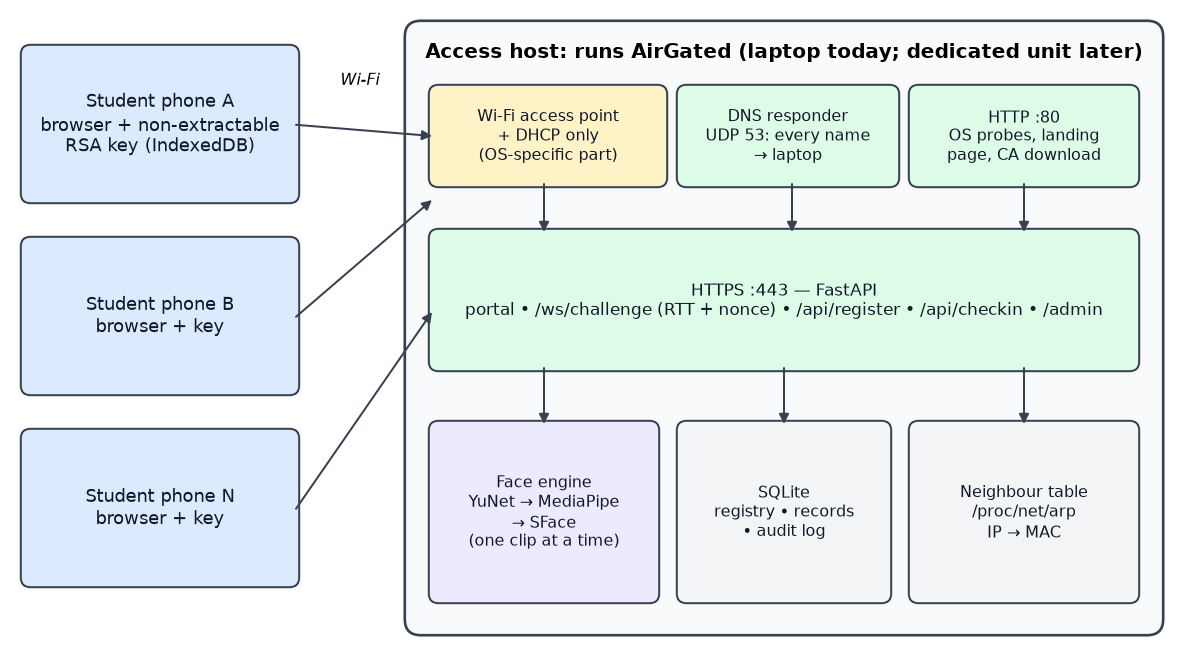
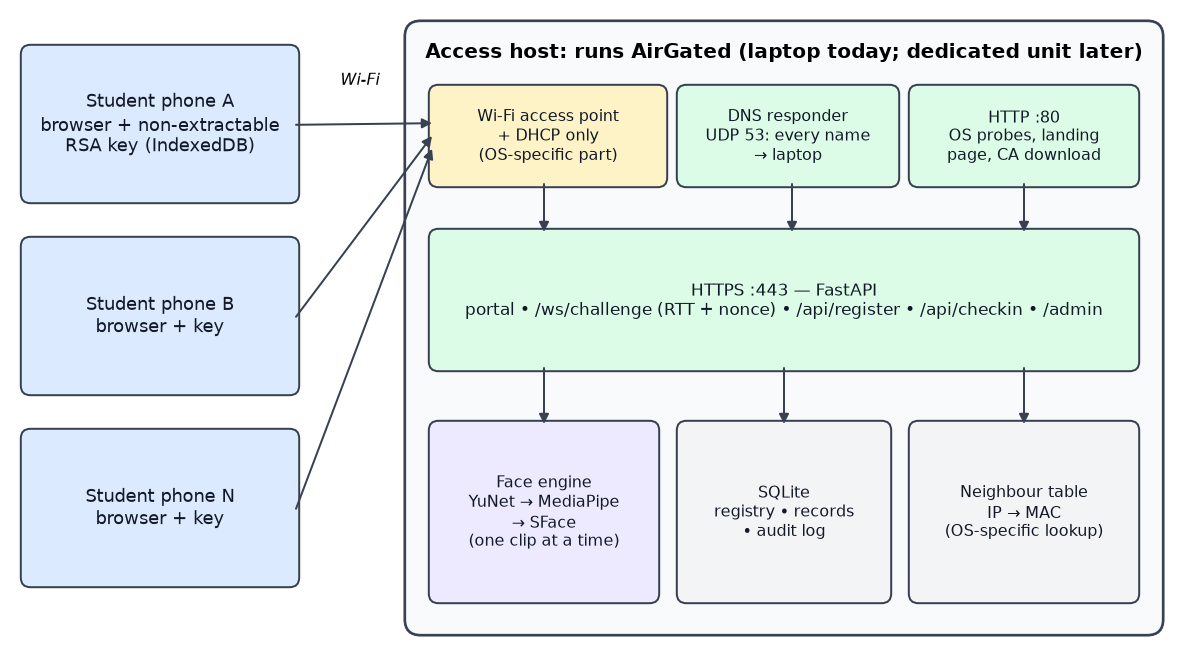
added figures and paper in tex

diff --git a/figures/make_figures.py b/figures/make_figures.py
@@ -62,9 +62,9 @@ def fig_architecture():
     box(ax, 2.65, 1.85, 4.4, 0.85, "HTTPS :443 — FastAPI\nportal • /ws/challenge (RTT + nonce) • /api/register • /api/checkin • /admin", "green", fs=7.5, bold=False)
     box(ax, 2.65, 0.4, 1.4, 1.1, "Face engine\nYuNet → MediaPipe\n→ SFace\n(one clip at a time)", "purple", fs=7)
     box(ax, 4.2, 0.4, 1.3, 1.1, "SQLite\nregistry • records\n• audit log", "grey", fs=7)
-    box(ax, 5.65, 0.4, 1.4, 1.1, "Neighbour table\n/proc/net/arp\nIP → MAC", "grey", fs=7)
-    for y in (3.37, 2.17, 0.97):
-        arrow(ax, (1.8, y), (2.65, 3.3 if y > 3 else 2.9 if y > 2 else 2.2), None)
+    box(ax, 5.65, 0.4, 1.4, 1.1, "Neighbour table\nIP → MAC\n(OS-specific lookup)", "grey", fs=7)
+    for y, ty in ((3.37, 3.38), (2.17, 3.30), (0.97, 3.22)):
+        arrow(ax, (1.8, y), (2.65, ty), None)
     ax.text(2.2, 3.62, "Wi-Fi", ha="center", fontsize=7, style="italic")
     arrow(ax, (3.35, 3.0), (3.35, 2.7)); arrow(ax, (4.9, 3.0), (4.9, 2.7)); arrow(ax, (6.35, 3.0), (6.35, 2.7))
     arrow(ax, (3.35, 1.85), (3.35, 1.5)); arrow(ax, (4.85, 1.85), (4.85, 1.5)); arrow(ax, (6.35, 1.85), (6.35, 1.5))

diff --git a/AirGated_arXiv_Paper.tex b/AirGated_arXiv_Paper.tex
@@ -15,7 +15,8 @@
 
 \title{\sys: A Prototype for Offline, Network-Bound Classroom Attendance\\with Device Keys and a Face-and-Blink Check}
 \author{Aakshant Kumar\\
-\small Department of Computer Science \& Engineering (Artificial Intelligence)\\
+\small Department of Computer Science \& Engineering, School of Engineering and Technology (formerly UIET)\\
+\small Chhatrapati Shahu Ji Maharaj University, Kanpur 208024, India\\
 \small \texttt{kumaraakshant2005@gmail.com}}
 \date{November 2026}
 
